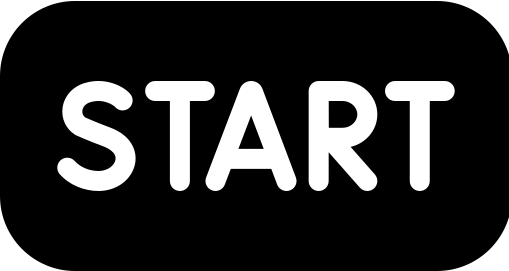
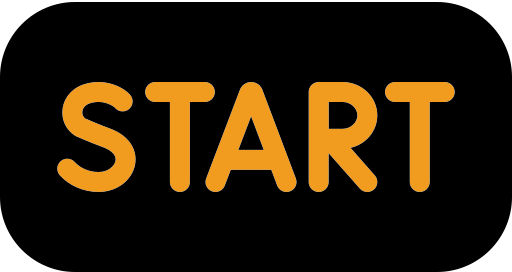
Add files via upload

diff --git a/Simulation.py b/Simulation.py
@@ -18,7 +18,7 @@ class Simulation:
                 e = Food()
                 queue.liste_food.append(e)
         
-    def Mise_A_Jour(self) -> None:
+    def Mise_A_Jour(self):
         # Ce qui est différent d'une frame à l'autre; toutes les actualisations se font ici
         for individu in queue.liste_individus:
             if individu.alive == True:
@@ -65,7 +65,7 @@ class Simulation:
         position_texte = ((0.05*constantes.LARGEUR_SETTINGS), (0.05*constantes.HAUTEUR_SETTINGS))
         fenetre.blit(texte_generation, position_texte)
     
-    def texte_facteur_food(self,fenetre):
+    def texte_facteur_food(self, fenetre):
         # Couleur du texte (blanc)
         couleur_texte = (255, 255, 255)
         police = pygame.font.Font(None, constantes.POLICE_ECRITURE)  # None spécifie la police par défaut, 36 est la taille de la police
@@ -74,7 +74,7 @@ class Simulation:
         position_texte = ((0.05*constantes.LARGEUR_SETTINGS), (0.2*constantes.HAUTEUR_SETTINGS ))
         fenetre.blit(texte_generation, position_texte)
 
-    def texte_tableur(self,fenetre):
+    def texte_tableur(self, fenetre):
         # Couleur du texte (blanc)
         couleur_texte = (255, 255, 255)
         police = pygame.font.Font(None, constantes.POLICE_ECRITURE)  # None spécifie la police par défaut, 36 est la taille de la police
@@ -83,7 +83,7 @@ class Simulation:
         position_texte = ((0.05*constantes.LARGEUR_SETTINGS), (0.4*constantes.HAUTEUR_SETTINGS ))
         fenetre.blit(texte_generation, position_texte)
 
-    def texte_time_generation(self,fenetre):
+    def texte_time_generation(self, fenetre):
         # Couleur du texte (blanc)
         couleur_texte = (255, 255, 255)
         police = pygame.font.Font(None, constantes.POLICE_ECRITURE)  # None spécifie la police par défaut, 36 est la taille de la police
@@ -92,7 +92,7 @@ class Simulation:
         position_texte = ((0.35*constantes.LARGEUR_SETTINGS), (0.05*constantes.HAUTEUR_SETTINGS))
         fenetre.blit(texte_generation, position_texte)
 
-    def texte_individus_start(self,fenetre):
+    def texte_individus_start(self, fenetre):
         # Couleur du texte (blanc)
         couleur_texte = (255, 255, 255)
         police = pygame.font.Font(None, constantes.POLICE_ECRITURE)  # None spécifie la police par défaut, 36 est la taille de la police
@@ -101,7 +101,7 @@ class Simulation:
         position_texte = ((0.05*constantes.LARGEUR_SETTINGS), (0.15*constantes.HAUTEUR_SETTINGS))
         fenetre.blit(texte_generation, position_texte)
 
-    def texte_individus_alive(self,fenetre):
+    def texte_individus_alive(self, fenetre):
         # Couleur du texte (blanc)
         couleur_texte = (255, 255, 255)
         police = pygame.font.Font(None, constantes.POLICE_ECRITURE)  # None spécifie la police par défaut, 36 est la taille de la police
@@ -110,7 +110,7 @@ class Simulation:
         position_texte = ((0.05*constantes.LARGEUR_SETTINGS), (0.25*constantes.HAUTEUR_SETTINGS))
         fenetre.blit(texte_generation, position_texte)
 
-    def texte_birth(self,fenetre):
+    def texte_birth(self, fenetre):
         # Couleur du texte (blanc)
         couleur_texte = (255, 255, 255)
         police = pygame.font.Font(None, constantes.POLICE_ECRITURE)  # None spécifie la police par défaut, 36 est la taille de la police
@@ -119,7 +119,7 @@ class Simulation:
         position_texte = ((0.05*constantes.LARGEUR_SETTINGS), (0.35*constantes.HAUTEUR_SETTINGS))
         fenetre.blit(texte_generation, position_texte)
 
-    def texte_individus_dead(self,fenetre):
+    def texte_individus_dead(self, fenetre):
         # Couleur du texte (blanc)
         couleur_texte = (255, 255, 255)
         police = pygame.font.Font(None, constantes.POLICE_ECRITURE)  # None spécifie la police par défaut, 36 est la taille de la police
@@ -128,16 +128,16 @@ class Simulation:
         position_texte = ((0.05*constantes.LARGEUR_SETTINGS), (0.45*constantes.HAUTEUR_SETTINGS))
         fenetre.blit(texte_generation, position_texte)
 
-    def texte_individu_dead_total(self,fenetre):
+    def texte_individu_dead_total(self, fenetre):
         # Couleur du texte (blanc)
         couleur_texte = (255, 255, 255)
         police = pygame.font.Font(None, constantes.POLICE_ECRITURE)  # None spécifie la police par défaut, 36 est la taille de la police
         # Création de l'objet texte
-        texte_generation = police.render("nombre individus mort total: {}".format(stats.nb_individus_dead_total), True, couleur_texte)
+        texte_generation = police.render("nombre individus morts total: {}".format(stats.nb_individus_dead_total), True, couleur_texte)
         position_texte = ((0.05*constantes.LARGEUR_SETTINGS), (0.55*constantes.HAUTEUR_SETTINGS))
         fenetre.blit(texte_generation, position_texte)
 
-    def texte_moyenne_size(self,fenetre):
+    def texte_moyenne_size(self, fenetre):
         # Couleur du texte (blanc)
         couleur_texte = (255, 255, 255)
         police = pygame.font.Font(None, constantes.POLICE_ECRITURE)  # None spécifie la police par défaut, 36 est la taille de la police
@@ -146,7 +146,7 @@ class Simulation:
         position_texte = ((0.05*constantes.LARGEUR_SETTINGS), (0.65*constantes.HAUTEUR_SETTINGS))
         fenetre.blit(texte_generation, position_texte)
 
-    def texte_moyenne_view(self,fenetre):
+    def texte_moyenne_view(self, fenetre):
         # Couleur du texte (blanc)
         couleur_texte = (255, 255, 255)
         police = pygame.font.Font(None, constantes.POLICE_ECRITURE)  # None spécifie la police par défaut, 36 est la taille de la police
@@ -155,7 +155,7 @@ class Simulation:
         position_texte = ((0.05*constantes.LARGEUR_SETTINGS), (0.75*constantes.HAUTEUR_SETTINGS))
         fenetre.blit(texte_generation, position_texte)
 
-    def texte_moyenne_speed(self,fenetre):
+    def texte_moyenne_speed(self, fenetre):
         # Couleur du texte (blanc)
         couleur_texte = (255, 255, 255)
         police = pygame.font.Font(None, constantes.POLICE_ECRITURE)  # None spécifie la police par défaut, 36 est la taille de la police
@@ -163,9 +163,18 @@ class Simulation:
         texte_generation = police.render("moyenne speed individus: {}".format(stats.individus_moyenne_speed), True, couleur_texte)
         position_texte = ((0.05*constantes.LARGEUR_SETTINGS), (0.85*constantes.HAUTEUR_SETTINGS))
         fenetre.blit(texte_generation, position_texte)
+        
+    def texte_status(self, fenetre):
+        # Couleur du texte (blanc)
+        couleur_texte = (255, 255, 255)
+        police = pygame.font.Font(None, constantes.POLICE_ECRITURE)  # None spécifie la police par défaut, 36 est la taille de la police
+        # Création de l'objet texte
+        texte_generation = police.render("statut simulation: {}".format(stats.statut), True, couleur_texte)
+        position_texte = ((0.05*constantes.LARGEUR_SETTINGS), (0.5*constantes.HAUTEUR_SETTINGS ))
+        fenetre.blit(texte_generation, position_texte)
 
     # Une fois que tous les calculs ont été faits dans la fonction Mise_A_Jour, on affiche tous les éléments
-    def Afficher(self, fenetre) -> None:
+    def Afficher(self, fenetre):
         
         # On commence par effacer l'écran de la frame précédante en coloriant l'écran
         fenetre.fill("white") 
@@ -195,7 +204,7 @@ class Simulation:
         self.texte_generation(self.surface_stats)
         self.texte_nb_individus(self.surface_settings)
         self.texte_facteur_food(self.surface_settings)
-        self.texte_tableur(self.surface_settings)
+        # self.texte_tableur(self.surface_settings) # Pas besoin
         self.texte_time_generation(self.surface_settings)
         self.texte_moyenne_size(self.surface_stats)
         self.texte_moyenne_view(self.surface_stats)
@@ -205,6 +214,8 @@ class Simulation:
         self.texte_birth(self.surface_stats)
         self.texte_individus_dead(self.surface_stats)
         self.texte_individu_dead_total(self.surface_stats)
+        self.texte_status(self.surface_settings)
+        
         # On injecte les surfaces sur l'écran
         fenetre.blit(self.surface_stats, (constantes.X_STATS, constantes.Y_STATS))    
         fenetre.blit(self.surface_general, (constantes.X_GENERAL, constantes.Y_GENERAL)) # coordonnées (x, y)
@@ -229,13 +240,15 @@ class Simulation:
                 stats.nb_individus_dead+=1
                 stats.nb_individus_dead_total+=1
         
-        stats.nb_individus_alive=len(queue.liste_individus)
+        
         
         # On regénère des individus
         for individu in queue.liste_individus:
             if individu.food >= 2:
                 queue.liste_individus.append(Creature(stats.generation))
                 stats.births += 1
+        
+        stats.nb_individus_alive=len(queue.liste_individus)
         
         if stats.nb_individus_alive == 0:
             stats.individus_moyenne_size = 0

diff --git a/application.py b/application.py
@@ -1,12 +1,13 @@
 import os
 os.chdir("natural_selection_sim-main/")
 import pygame, constantes, UI, queue, stats, export
+from plyer import notification
 from Simulation import *
 
 
 class App:
     
-    def __init__(self) -> None:
+    def __init__(self):
         # On va faire 20 frames à chaque seconde (20 FPS), donc la boucle principale est répétée 20 fois à chaque seconde
         self.FPS = 20 # 20 fps recommandé
         self.lecture = True
@@ -20,13 +21,14 @@ class App:
         self.chrono = pygame.time.Clock()
 
         # Création des boutons
-        self.bouton_start = UI.Button(constantes.x_bouton_start_settings, constantes.y_bouton_start_settings, "assets/start_bouton_troll.png")
+        self.bouton_start = UI.Button(constantes.x_bouton_start_settings, constantes.y_bouton_start_settings, "assets/start_bouton.png")
         self.bouton_plus_individus = UI.Button(constantes.x_bouton_plus_individus_settings, constantes.y_bouton_plus_individus_settings, "assets/plus_bouton.png")
         self.bouton_moins_individus = UI.Button(constantes.x_bouton_moins_individus_settings, constantes.y_bouton_moins_individus_settings, "assets/moins_bouton.png")
         self.bouton_moins_food = UI.Button(constantes.x_bouton_moins_food_settings, constantes.y_bouton_moins_food_settings,"assets/moins_bouton.png")
         self.bouton_plus_food = UI.Button(constantes.x_bouton_plus_food_settings, constantes.y_bouton_plus_food_settings,"assets/plus_bouton.png")
         self.bouton_moins_time = UI.Button(constantes.x_bouton_moins_time_settings, constantes.y_bouton_moins_time_settings,"assets/moins_bouton.png")
         self.bouton_clear = UI.Button(constantes.x_bouton_clear_settings, constantes.y_bouton_clear_settings, "assets/bouton_clear.png")
+        
     # Boucle principale du programme
     def main(self):
         
@@ -38,12 +40,12 @@ class App:
         
         # Prépare pour l'export des statistiques
         if supp == "y":
-            print("clear")
             export.clear()
         else:
             export.create_sheet()
         export.load_and_write()
         
+        stats.statut = "En cours"
         stats.nb_individus_start = queue.nb_individus
         self.simulation = Simulation(queue.nb_individus, queue.facteur_food)
         queue.timer = queue.time_generation
@@ -87,15 +89,23 @@ class App:
                 # C'est une boucle for-else, ce else se déclenche uniquement si aucun "break" n'a été déclenché
                 # Après 15 secondes, on démarre un nouveau tour, naissances, morts, apparition de nourriture
                 if self.simulation.Nouveau_tour(queue.facteur_food) == False:
+                    stats.statut = "Terminé"
+                    # export.graph()
+                    notification.notify( # Notification windows
+                        title='Simulation',
+                        message='Fin de la simulation',
+                        timeout=10 
+                        )
+
                     while True:
                         self.Demande_Evenements_END()
-                        self.screen.fill("black")
+                        self.simulation.Afficher(self.screen)
                         pygame.display.flip()           
 
         # On arrive ici uniquement si l'utilisateur souhaite quitter le programme, donc on ferme pygame
         pygame.quit()
 
-    def Demande_Evenements(self) -> list:
+    def Demande_Evenements(self):
         # Cette fonction vérifie si l'utilisateur veut fermer la fenêtre, et obtient la liste d'évenements qui sera transmise à la suite du programme
         
         global supp

diff --git a/UI.py b/UI.py
@@ -9,7 +9,7 @@ class Button():
         self.x = x
         self.y = y
         
-        if chemin_image == "assets/start_bouton_troll.png":
+        if chemin_image == "assets/start_bouton.png":
             self.image = pygame.transform.scale(pygame.image.load(chemin_image), (constantes.LARGEUR_BOUTON_START, constantes.HAUTEUR_BOUTON_START))
         elif chemin_image == "assets/plus_bouton.png":
             self.image = pygame.transform.scale(pygame.image.load(chemin_image), (constantes.LARGEUR_BOUTON_PLUS, constantes.HAUTEUR_BOUTON_PLUS))
@@ -160,7 +160,7 @@ def texte_individu_dead_total(fenetre):
     couleur_texte = (255, 255, 255)
     police = pygame.font.Font(None, constantes.POLICE_ECRITURE)  # None spécifie la police par défaut, 36 est la taille de la police
     # Création de l'objet texte
-    texte_generation = police.render("nombre individus mort total: {}".format(stats.nb_individus_dead_total), True, couleur_texte)
+    texte_generation = police.render("nombre individus morts total: {}".format(stats.nb_individus_dead_total), True, couleur_texte)
     position_texte = ((0.05*constantes.LARGEUR_SETTINGS), (0.55*constantes.HAUTEUR_SETTINGS))
     fenetre.blit(texte_generation, position_texte)
 
@@ -190,6 +190,15 @@ def texte_moyenne_speed(fenetre):
     texte_generation = police.render("moyenne speed individus: {}".format(stats.individus_moyenne_speed), True, couleur_texte)
     position_texte = ((0.05*constantes.LARGEUR_SETTINGS), (0.85*constantes.HAUTEUR_SETTINGS))
     fenetre.blit(texte_generation, position_texte)
+    
+def texte_status(fenetre):
+    # Couleur du texte (blanc)
+    couleur_texte = (255, 255, 255)
+    police = pygame.font.Font(None, constantes.POLICE_ECRITURE)  # None spécifie la police par défaut, 36 est la taille de la police
+    # Création de l'objet texte
+    texte_generation = police.render("statut simulation: {}".format(stats.statut), True, couleur_texte)
+    position_texte = ((0.05*constantes.LARGEUR_SETTINGS), (0.5*constantes.HAUTEUR_SETTINGS ))
+    fenetre.blit(texte_generation, position_texte)
        
 def ecran_avant_début(fenetre):
     # On commence par effacer l'écran de la frame précédante en coloriant l'écran
@@ -206,7 +215,7 @@ def ecran_avant_début(fenetre):
     surface_settings.fill("blue")  # couleur bleu 
 
     # Affichage des boutons
-    image = pygame.transform.scale(pygame.image.load("assets/start_bouton_troll.png"), (constantes.LARGEUR_BOUTON_START, constantes.HAUTEUR_BOUTON_START))
+    image = pygame.transform.scale(pygame.image.load("assets/start_bouton.png"), (constantes.LARGEUR_BOUTON_START, constantes.HAUTEUR_BOUTON_START))
     surface_settings.blit(image, (constantes.x_bouton_start_settings, constantes.y_bouton_start_settings))
 
     image = pygame.transform.scale(pygame.image.load("assets/moins_bouton.png"), (constantes.LARGEUR_BOUTON_MOINS, constantes.HAUTEUR_BOUTON_MOINS))
@@ -244,6 +253,7 @@ def ecran_avant_début(fenetre):
     texte_birth(surface_stats)
     texte_individus_dead(surface_stats)
     texte_individu_dead_total(surface_stats)
+    texte_status(surface_settings)
 
     # On injecte les surfaces sur l'écran
     fenetre.blit(surface_general, (constantes.X_GENERAL, constantes.Y_GENERAL)) # coordonnées (x, y)

diff --git a/test.py b/test.py
@@ -12,11 +12,31 @@
 # data = [{"Génération": stats.generation, "Nombre d'individus départ": stats.nb_individus_start, "Nombre d'individus en vie": stats.nb_individus_alive, "Nombre de naissances": stats.births, "Nombre de morts": stats.nb_individus_dead, "Moyenne taille individus": stats.individus_moyenne_size, "Moyenne vue individus": stats.individus_moyenne_view, "Moyenne vitesse individus": stats.individus_moyenne_speed, "Nombre de morts total": stats.nb_individus_dead_total}]
 # data_frame_to_export = pd.DataFrame.from_records(data)
 # data_frame_to_export.to_excel("simulations.xlsl")
-import openpyxl, os
+import openpyxl, os, stats
+from openpyxl.chart import BarChart, Reference
+from openpyxl.utils import get_column_letter
 os.chdir("natural_selection_sim-main/")
 
+# workbook = openpyxl.load_workbook("simulations.xlsx")
+# name_page = workbook.sheetnames[-1] # On récupère le nom de la dernière feuille
+# ws = workbook[name_page]
+# graphique = BarChart()
+# graphique.title = "Nombre d'individus dans le temps"
+# graphique.x_axis_title = "Generation"
+# graphique.y_axis_title = "Nombre d'individus vivants"
+# valeurs_x = Reference(ws, min_col=1, min_row=2, max_row=stats.generation+1)
+# valeurs_y = Reference(ws, min_col=3, min_row=2, max_row=stats.generation+1)
+# serie = openpyxl.chart.Series(valeurs_y, xvalues=valeurs_x, title="Données")
+# graphique.append(serie)
+# ligne = stats.generation+1
+# colonne = 1
+# lettre_colonne = get_column_letter(colonne)
+# cellule = ws[lettre_colonne + str(ligne)]
+# ws.add_chart(graphique, cellule)
+# workbook.save("simulations.xlsx")
+
 workbook = openpyxl.load_workbook("simulations.xlsx")
-for e in workbook:
+for e in workbook: # On supprime toutes les pages
     workbook.remove(e)
-workbook.create_sheet(title='simulation')
+workbook.create_sheet(title='simulation') # Recrée une page
 workbook.save("simulations.xlsx")

diff --git a/export.py b/export.py
@@ -1,4 +1,6 @@
 import openpyxl
+from openpyxl.chart import BarChart, Reference
+from openpyxl.utils import get_column_letter
 import stats
 # os.chdir("natural_selection_sim-main/")
 
@@ -29,3 +31,20 @@ def export():
     # print([stats.generation, stats.nb_individus_start, stats.nb_individus_alive, stats.births, stats.nb_individus_dead, stats.individus_moyenne_size, stats.individus_moyenne_view, stats.individus_moyenne_speed, stats.nb_individus_dead_total])
     workbook.save("simulations.xlsx")
 
+# def graph():
+#     workbook = openpyxl.load_workbook("simulations.xlsx")
+#     name_page = workbook.sheetnames[-1] # On récupère le nom de la dernière feuille
+#     ws = workbook[name_page]
+    
+#     values = Reference(ws, min_col=1, max_col=1, min_row=2, max_row=stats.generation+1)
+#     graphique = BarChart()
+#     graphique.title = "Nombre d'individus dans le temps"
+#     graphique.x_axis_title = "Generation"
+#     graphique.y_axis_title = "Nombre d'individus vivants"
+#     graphique.add_data(values, "A10")
+#     ws.add_chart(graphique)
+#     workbook.save("simulations.xlsx")
+    
+
+    
+    

diff --git a/Creature.py b/Creature.py
@@ -86,6 +86,15 @@ class Creature(pygame.sprite.Sprite):
             self.x += self.direction_x * int(self.speed * self.deplacement)
             self.y += self.direction_y * int(self.speed * self.deplacement)
 
+        if self.x < 0:
+            self.x = self.new_size
+        elif self.x > self.max_x:
+            self.x = self.max_x
+        if self.y < 0:
+            self.y = self.new_size
+        elif self.y > self.max_y:
+            self.y = self.max_y
+
         # Vérifier les limites de la surface générale et empêcher les entitées de sortir
         if self.x < self.new_size:
             self.x = self.new_size
@@ -95,6 +104,8 @@ class Creature(pygame.sprite.Sprite):
             self.y = self.new_size
         elif self.y > self.max_y:
             self.y = self.max_y - self.new_size
+            
+        
     
     def Clear(self):
         surface = pygame.Surface(self.image.get_size())

diff --git a/stats.py b/stats.py
@@ -1,5 +1,7 @@
 import queue
 
+statut = "Réglages" # Réglages, En cours, Terminé
+
 generation = 0
 nb_individus_start = 0 #nombre d'individu au tout début de la simulation 
 births = 0 #nombre de naissance sur le nouveau tour 
